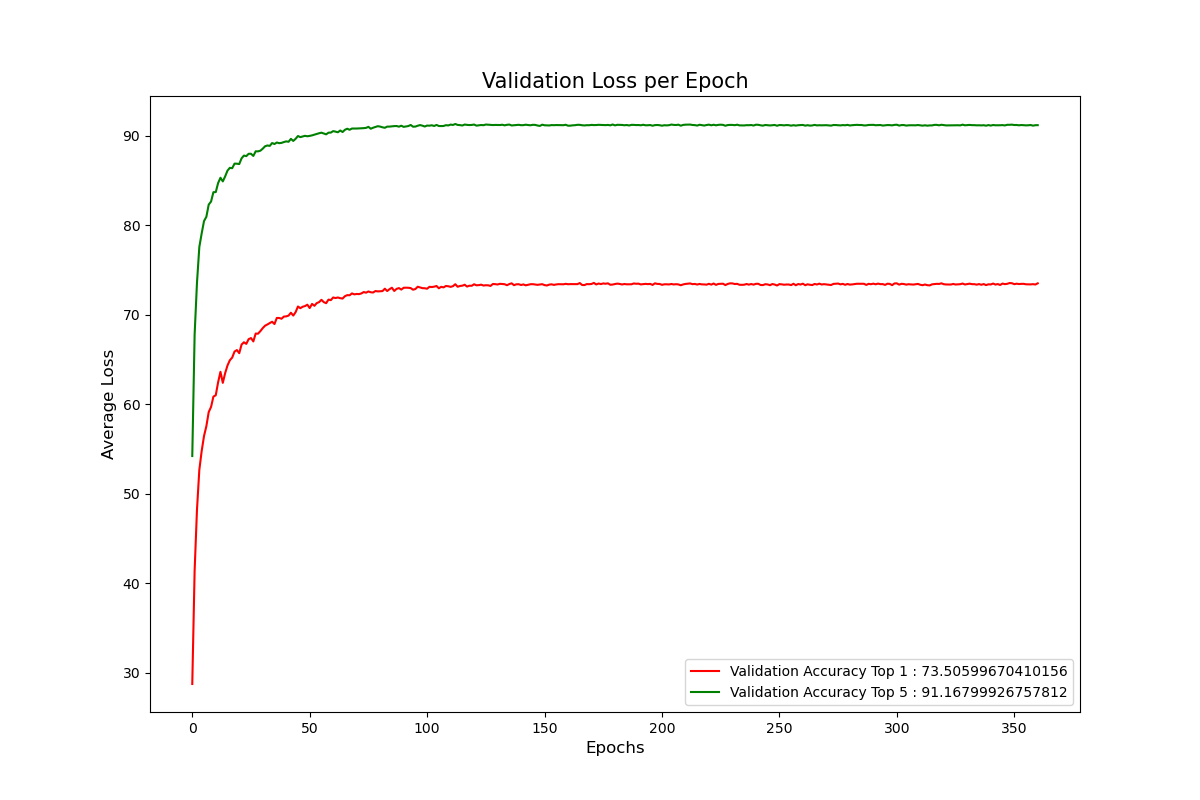
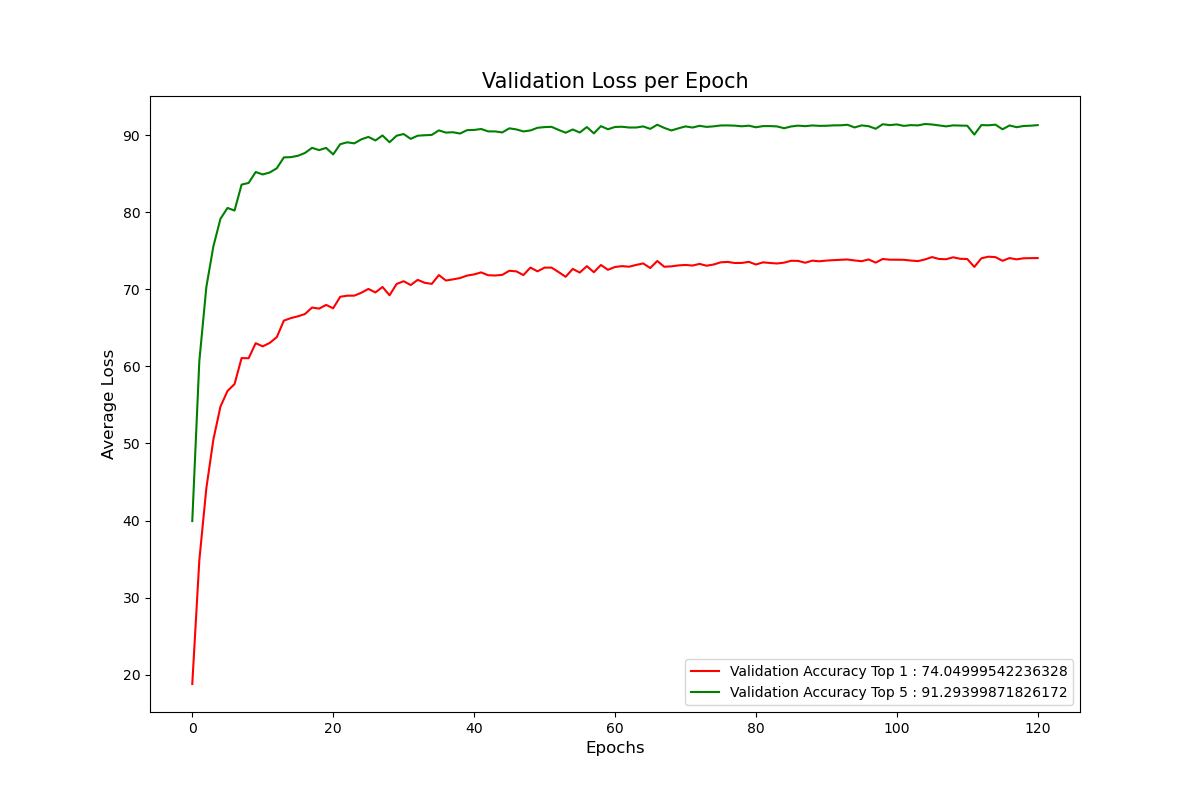
[20220404] README Update

diff --git a/README.md b/README.md
@@ -97,6 +97,17 @@ Training
 Validation  
   Top-1 Accuracy : 73.786%  
   Top-5 Accuracy : 91.198%  
+
+## 6. ResNet-152
+
+Training  
+  Top-1 Accuracy : 90.764%  
+  Top-5 Accuracy : 96.794%  
+
+Validation  
+  Top-1 Accuracy : 74.050%  
+  Top-5 Accuracy : 91.294%  
+
   
 
 
